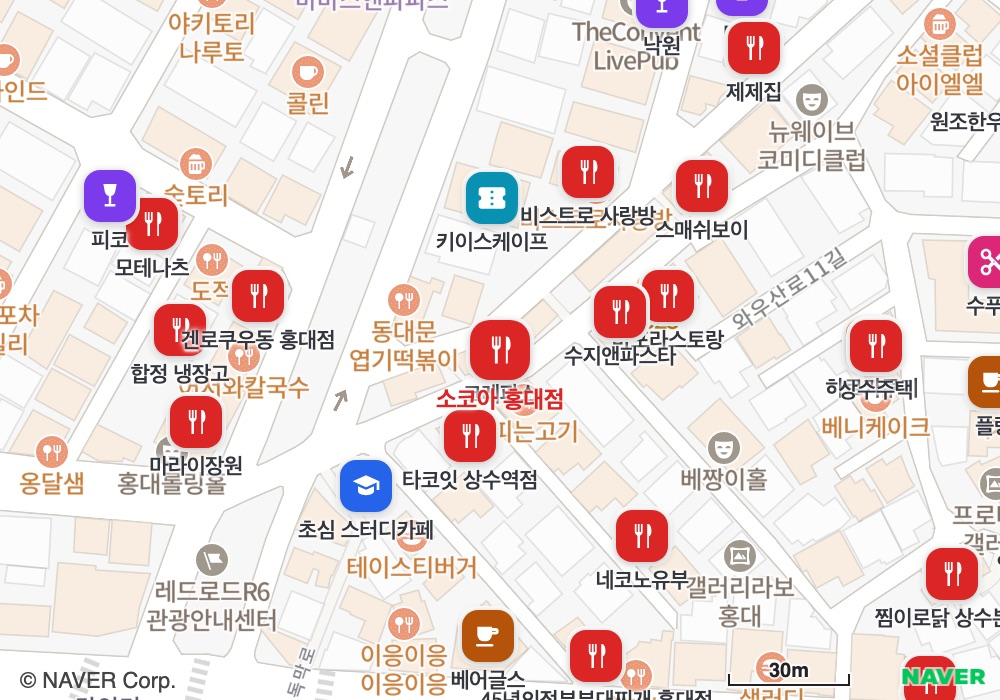
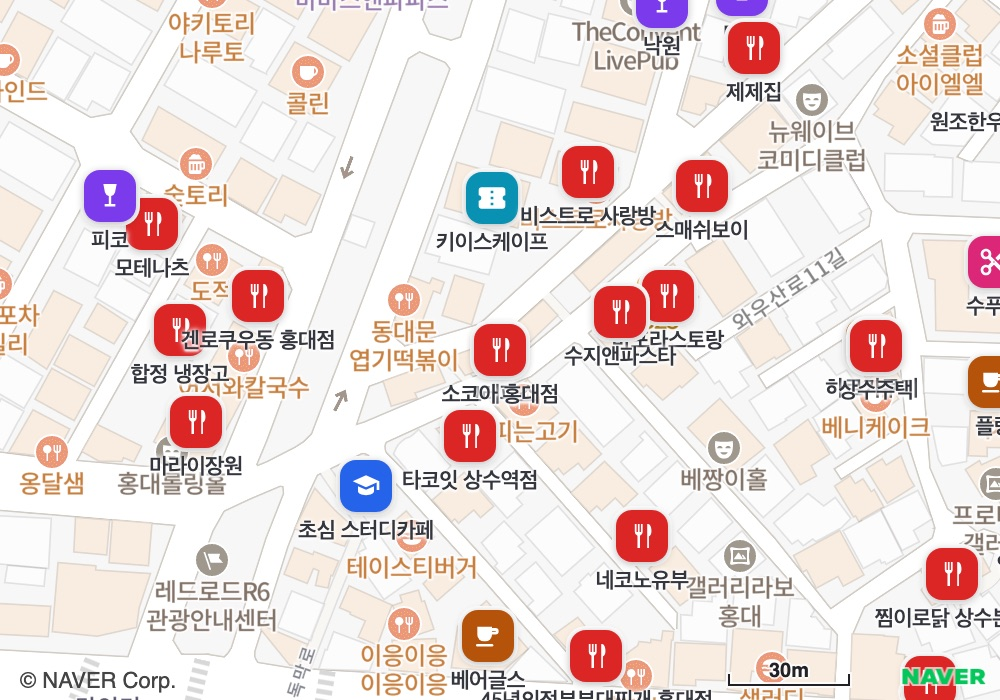
fix(nearby): 반경 예시를 가게마다의 알림 영역으로 — 그림에 보이는 제휴 가게마다 반경 원
알림은 가게 둘레 반경 안에 들어가 머물 때 온다. 한 지점 둘레 원 하나가 아니라 가게마다 원을 그린다.
배경 그림은 선택 표시 없이 다시 찍었고, 반경이 크면 원을 옅게 그린다.

Changed region(s): [[0.434, 0.45, 0.558, 0.6]]

diff --git a/src/components/settings/NearbyRadiusMap.tsx b/src/components/settings/NearbyRadiusMap.tsx
@@ -3,14 +3,13 @@ import { Image, StyleSheet, Text, View, type LayoutChangeEvent } from 'react-nat
 import { COLORS } from '../../constants/colors'
 import { FONTS } from '../../constants/typography'
 import { RADIUS } from '../../constants/spacing'
-import { haversineMeters } from '../../utils/geo'
 import { useMapData } from '../../lib/mapData'
 
-/** 실제 판정은 GPS 오차를 반경에 더해 준다(rules.preciselyInside, 최대 15m). 점선 원으로 그만큼 바깥을 그린다. */
+/** 실제 판정은 GPS 오차를 반경에 더해 준다(rules.preciselyInside, 최대 15m). 설명 글에만 적는다. */
 const GPS_ALLOWANCE_METERS = 15
 
 /**
- * 예시 지도 가운데 업체(11-02 운영진이 고름). 상수역 앞 제휴업체가 모인 골목이다.
+ * 예시 그림의 가운데 지점(11-02 운영진이 고름, 소코아 홍대점 위치). 상수역 앞 제휴업체가 모인 골목이다. 알림 영역은 가게마다 그린다.
  * 배경 그림이 이 업체를 정가운데에 두고 찍은 것이라, 업체를 바꾸면 그림도 다시 찍어야 한다.
  */
 const CENTER = { name: '소코아 홍대점', lat: 37.548639, lng: 126.920953 } as const
@@ -31,24 +30,37 @@ function metersPerPixel(zoom: number): number {
   return (156543.03392 * Math.cos((CENTER.lat * Math.PI) / 180)) / 2 ** zoom
 }
 
+/** 웹 메르카토르에서 확대 단계 zoom 의 화면 좌표(CSS px). 그림 가운데(`CENTER`)와의 차이로 업체 위치를 그림 위에 찍는다. */
+function project(lat: number, lng: number, zoom: number): { x: number; y: number } {
+  const world = 256 * 2 ** zoom
+  const sin = Math.sin((lat * Math.PI) / 180)
+  return { x: ((lng + 180) / 360) * world, y: (0.5 - Math.log((1 + sin) / (1 - sin)) / (4 * Math.PI)) * world }
+}
+
 /**
- * 알림 반경 아래 지도 예시(11-01, 11-02 그림으로 바꿈). 예시 업체를 가운데 두고,
- * 고른 반경(실선)과 GPS 오차를 더한 가장 바깥(점선)을 그림 위에 실제 축척으로 그린다.
+ * 알림 반경 아래 지도 예시(11-01, 11-02 그림으로 바꿈). 알림은 가게마다 따로 정한 영역(가게 둘레 반경) 안에 들어가 머물 때 온다.
+ * 그래서 그림에 보이는 제휴 가게마다 고른 반경 원을 실제 축척으로 그린다. 원은 앱이 가진 업체 목록에서 그린다.
  */
 export default function NearbyRadiusMap({ meters }: { meters: number }) {
   const { partners } = useMapData()
   const [width, setWidth] = useState(0)
   const zoom = meters <= 30 ? 18 : 17
-  const inside = useMemo(
-    () => partners.filter((p) => haversineMeters(p.lat, p.lng, CENTER.lat, CENTER.lng) <= meters).length,
-    [partners, meters],
-  )
+  const height = width / IMAGE_ASPECT
 
-  const pxPerMeter = width > 0 ? width / IMAGE_CSS_WIDTH / metersPerPixel(zoom) : 0
-  const circle = (radiusMeters: number) => {
-    const r = radiusMeters * pxPerMeter
-    return { width: r * 2, height: r * 2, borderRadius: r, left: width / 2 - r, top: width / IMAGE_ASPECT / 2 - r }
-  }
+  // 그림 안에 들어오는 가게와 그 위치(px). 반경이 그림 밖으로 걸치는 가게도 원 일부가 보이게 넣는다.
+  const zones = useMemo(() => {
+    if (width <= 0) return []
+    const scale = width / IMAGE_CSS_WIDTH
+    const center = project(CENTER.lat, CENTER.lng, zoom)
+    const r = (meters / metersPerPixel(zoom)) * scale
+    return partners
+      .filter((p) => Number.isFinite(p.lat) && Number.isFinite(p.lng))
+      .map((p) => {
+        const at = project(p.lat, p.lng, zoom)
+        return { id: p.id, x: width / 2 + (at.x - center.x) * scale, y: height / 2 + (at.y - center.y) * scale, r }
+      })
+      .filter((z) => z.x > -z.r && z.x < width + z.r && z.y > -z.r && z.y < height + z.r)
+  }, [partners, meters, zoom, width, height])
 
   return (
     <View style={styles.wrap}>
@@ -56,22 +68,26 @@ export default function NearbyRadiusMap({ meters }: { meters: number }) {
         style={styles.map}
         onLayout={(e: LayoutChangeEvent) => setWidth(e.nativeEvent.layout.width)}
         accessibilityRole="image"
-        accessibilityLabel={`${CENTER.name} 기준 반경 ${meters}미터 예시 지도`}
+        accessibilityLabel={`제휴 가게마다 반경 ${meters}미터 알림 영역 예시 지도`}
       >
         <Image source={BACKGROUNDS[zoom]} style={StyleSheet.absoluteFill} resizeMode="cover" />
-        {width > 0 && (
-          <>
-            <View style={[styles.outer, circle(meters + GPS_ALLOWANCE_METERS)]} />
-            <View style={[styles.inner, circle(meters)]} />
-          </>
-        )}
+        {zones.map((z) => (
+          <View
+            key={z.id}
+            style={[
+              styles.zone,
+              meters > 30 && styles.zoneWide,
+              { width: z.r * 2, height: z.r * 2, borderRadius: z.r, left: z.x - z.r, top: z.y - z.r },
+            ]}
+          />
+        ))}
       </View>
       <Text style={styles.caption}>
-        {CENTER.name} 기준 · 반경 {meters}m 안 제휴업체 {inside}곳
+        가게마다 반경 {meters}m · 이 지도에 {zones.length}곳
       </Text>
       <Text style={styles.legend}>
-        제휴업체가 모인 상수역 앞 골목의 한 가게를 예로 들었어요. 실선 원 안에 머물면 그 가게 알림이 오고, 점선은 GPS 오차를 더해 줄 수 있는 가장
-        바깥(반경 + {GPS_ALLOWANCE_METERS}m)이에요.
+        원 하나가 제휴 가게 하나의 알림 영역이에요. 이 영역 안에 들어가 잠시 머물면 그 가게 알림이 와요. GPS 오차를 생각해 최대{' '}
+        {GPS_ALLOWANCE_METERS}m까지 넉넉하게 봐줘요.
       </Text>
     </View>
   )
@@ -80,8 +96,9 @@ export default function NearbyRadiusMap({ meters }: { meters: number }) {
 const styles = StyleSheet.create({
   wrap: { gap: 6 },
   map: { aspectRatio: IMAGE_ASPECT, borderRadius: RADIUS.md, overflow: 'hidden', backgroundColor: COLORS.fill },
-  inner: { position: 'absolute', borderWidth: 2.5, borderColor: COLORS.primary, backgroundColor: 'rgba(5, 1, 74, 0.14)' },
-  outer: { position: 'absolute', borderWidth: 1.5, borderColor: 'rgba(5, 1, 74, 0.7)', borderStyle: 'dashed' },
+  zone: { position: 'absolute', borderWidth: 1.5, borderColor: COLORS.primary, backgroundColor: 'rgba(5, 1, 74, 0.12)' },
+  // 반경이 크면 원이 많이 겹쳐 지도가 덮이므로 옅게.
+  zoneWide: { borderWidth: 1, borderColor: 'rgba(5, 1, 74, 0.45)', backgroundColor: 'rgba(5, 1, 74, 0.04)' },
   caption: { fontSize: 13, lineHeight: 18, fontFamily: FONTS.semibold, color: COLORS.textPrimary },
   legend: { fontSize: 13, lineHeight: 19, fontFamily: FONTS.regular, color: COLORS.textTertiary },
 })
